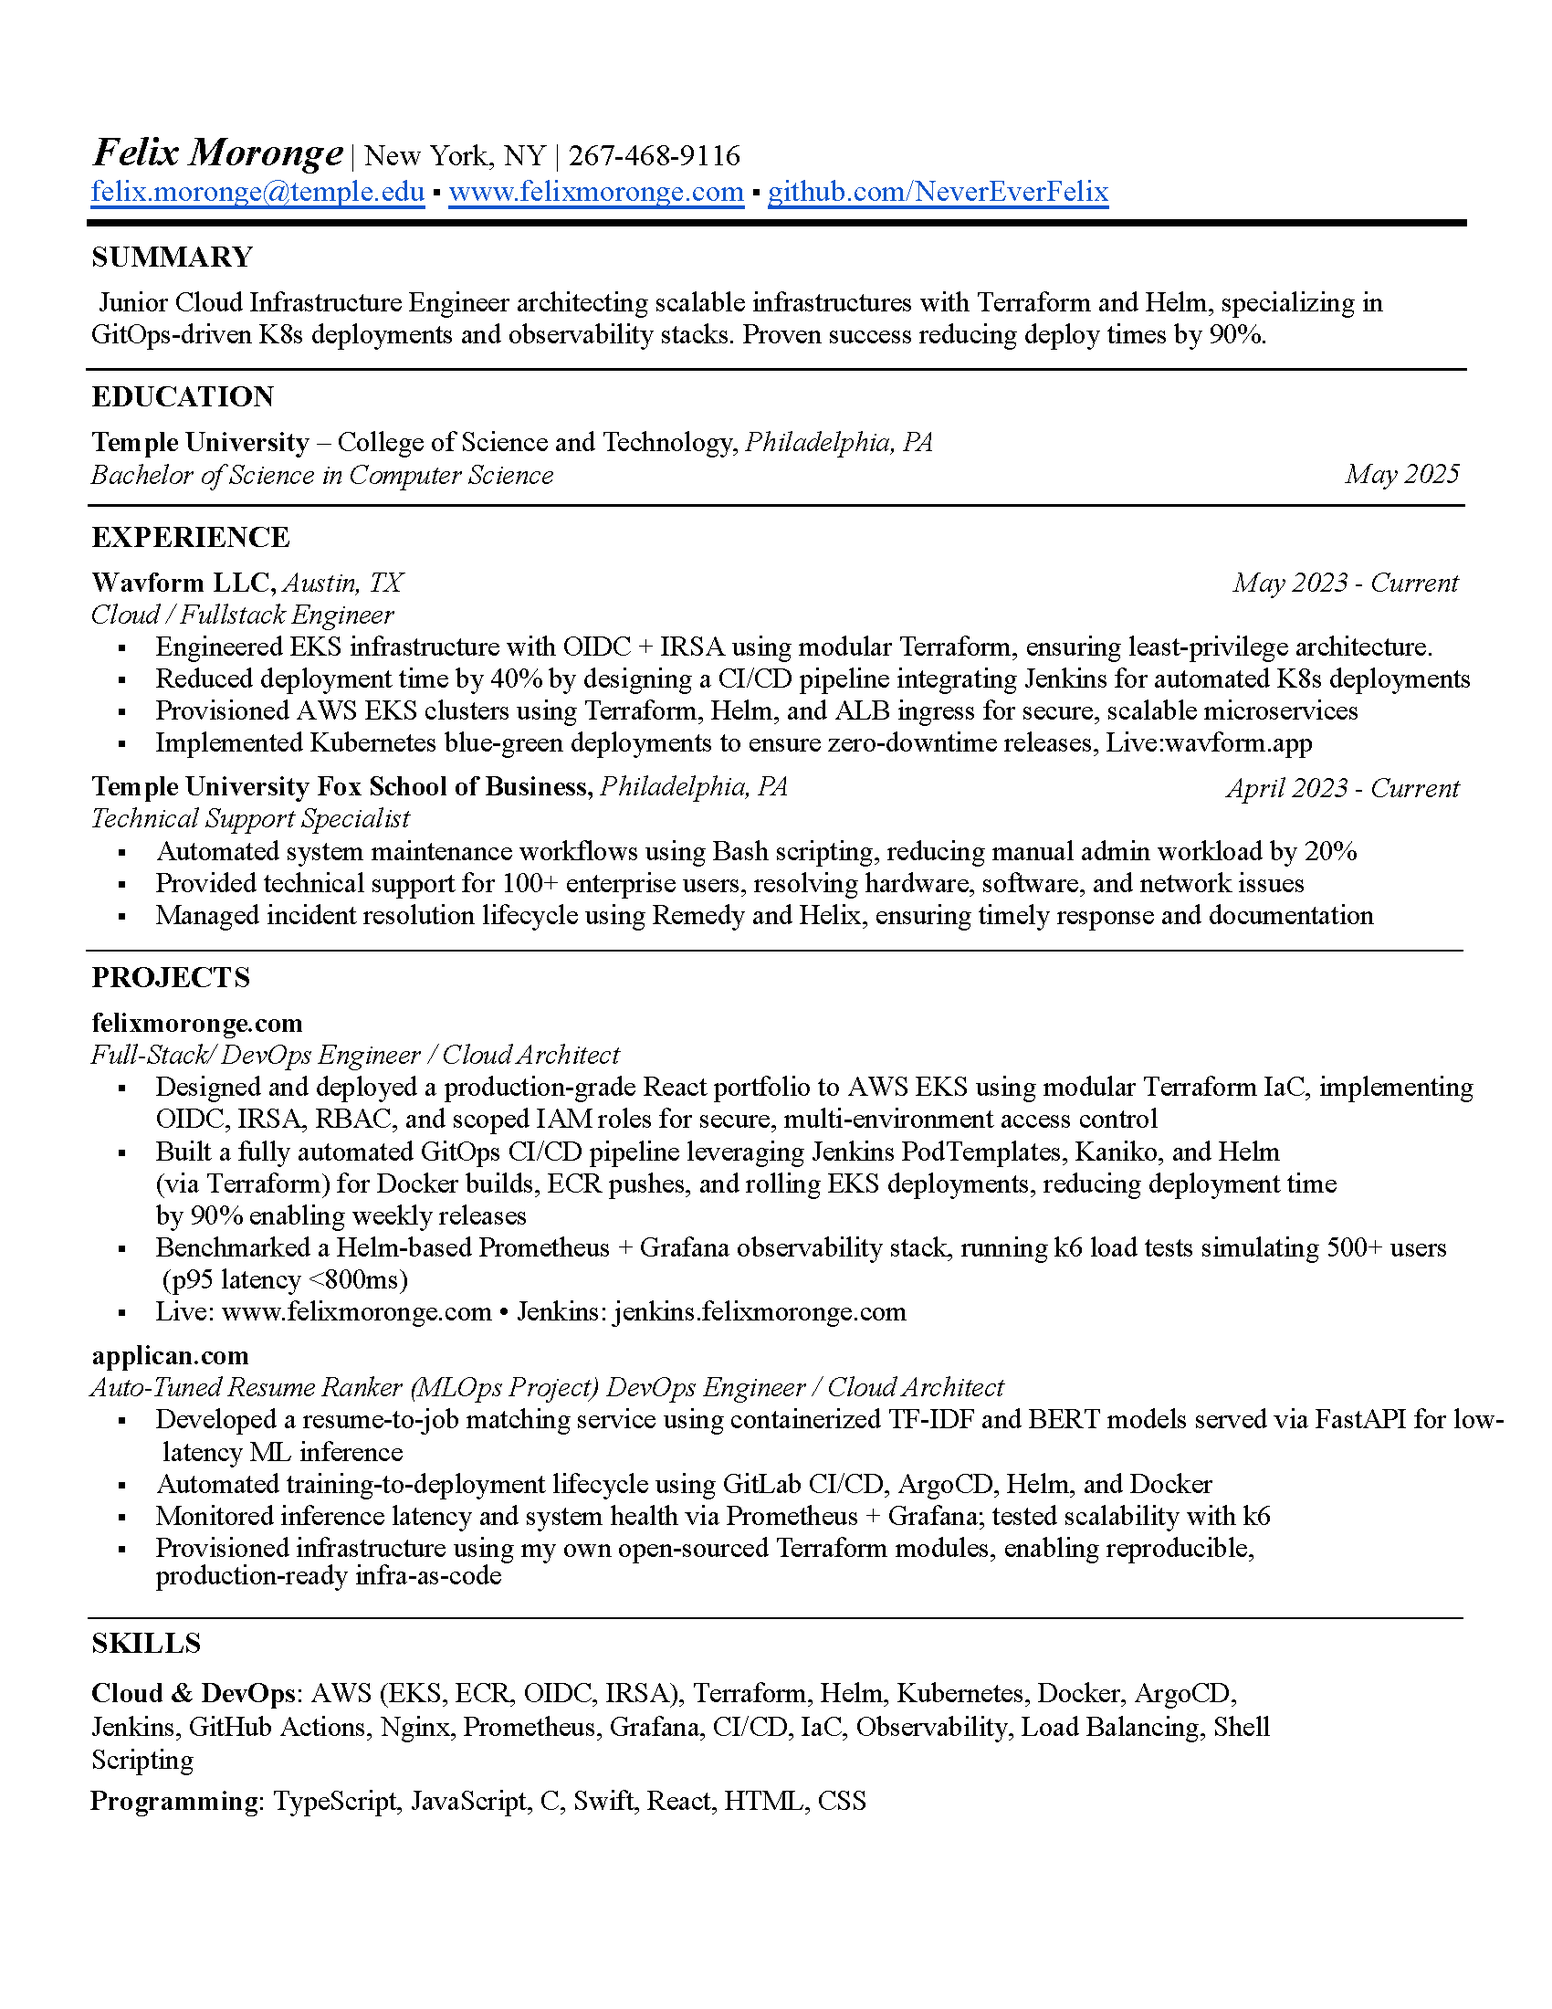
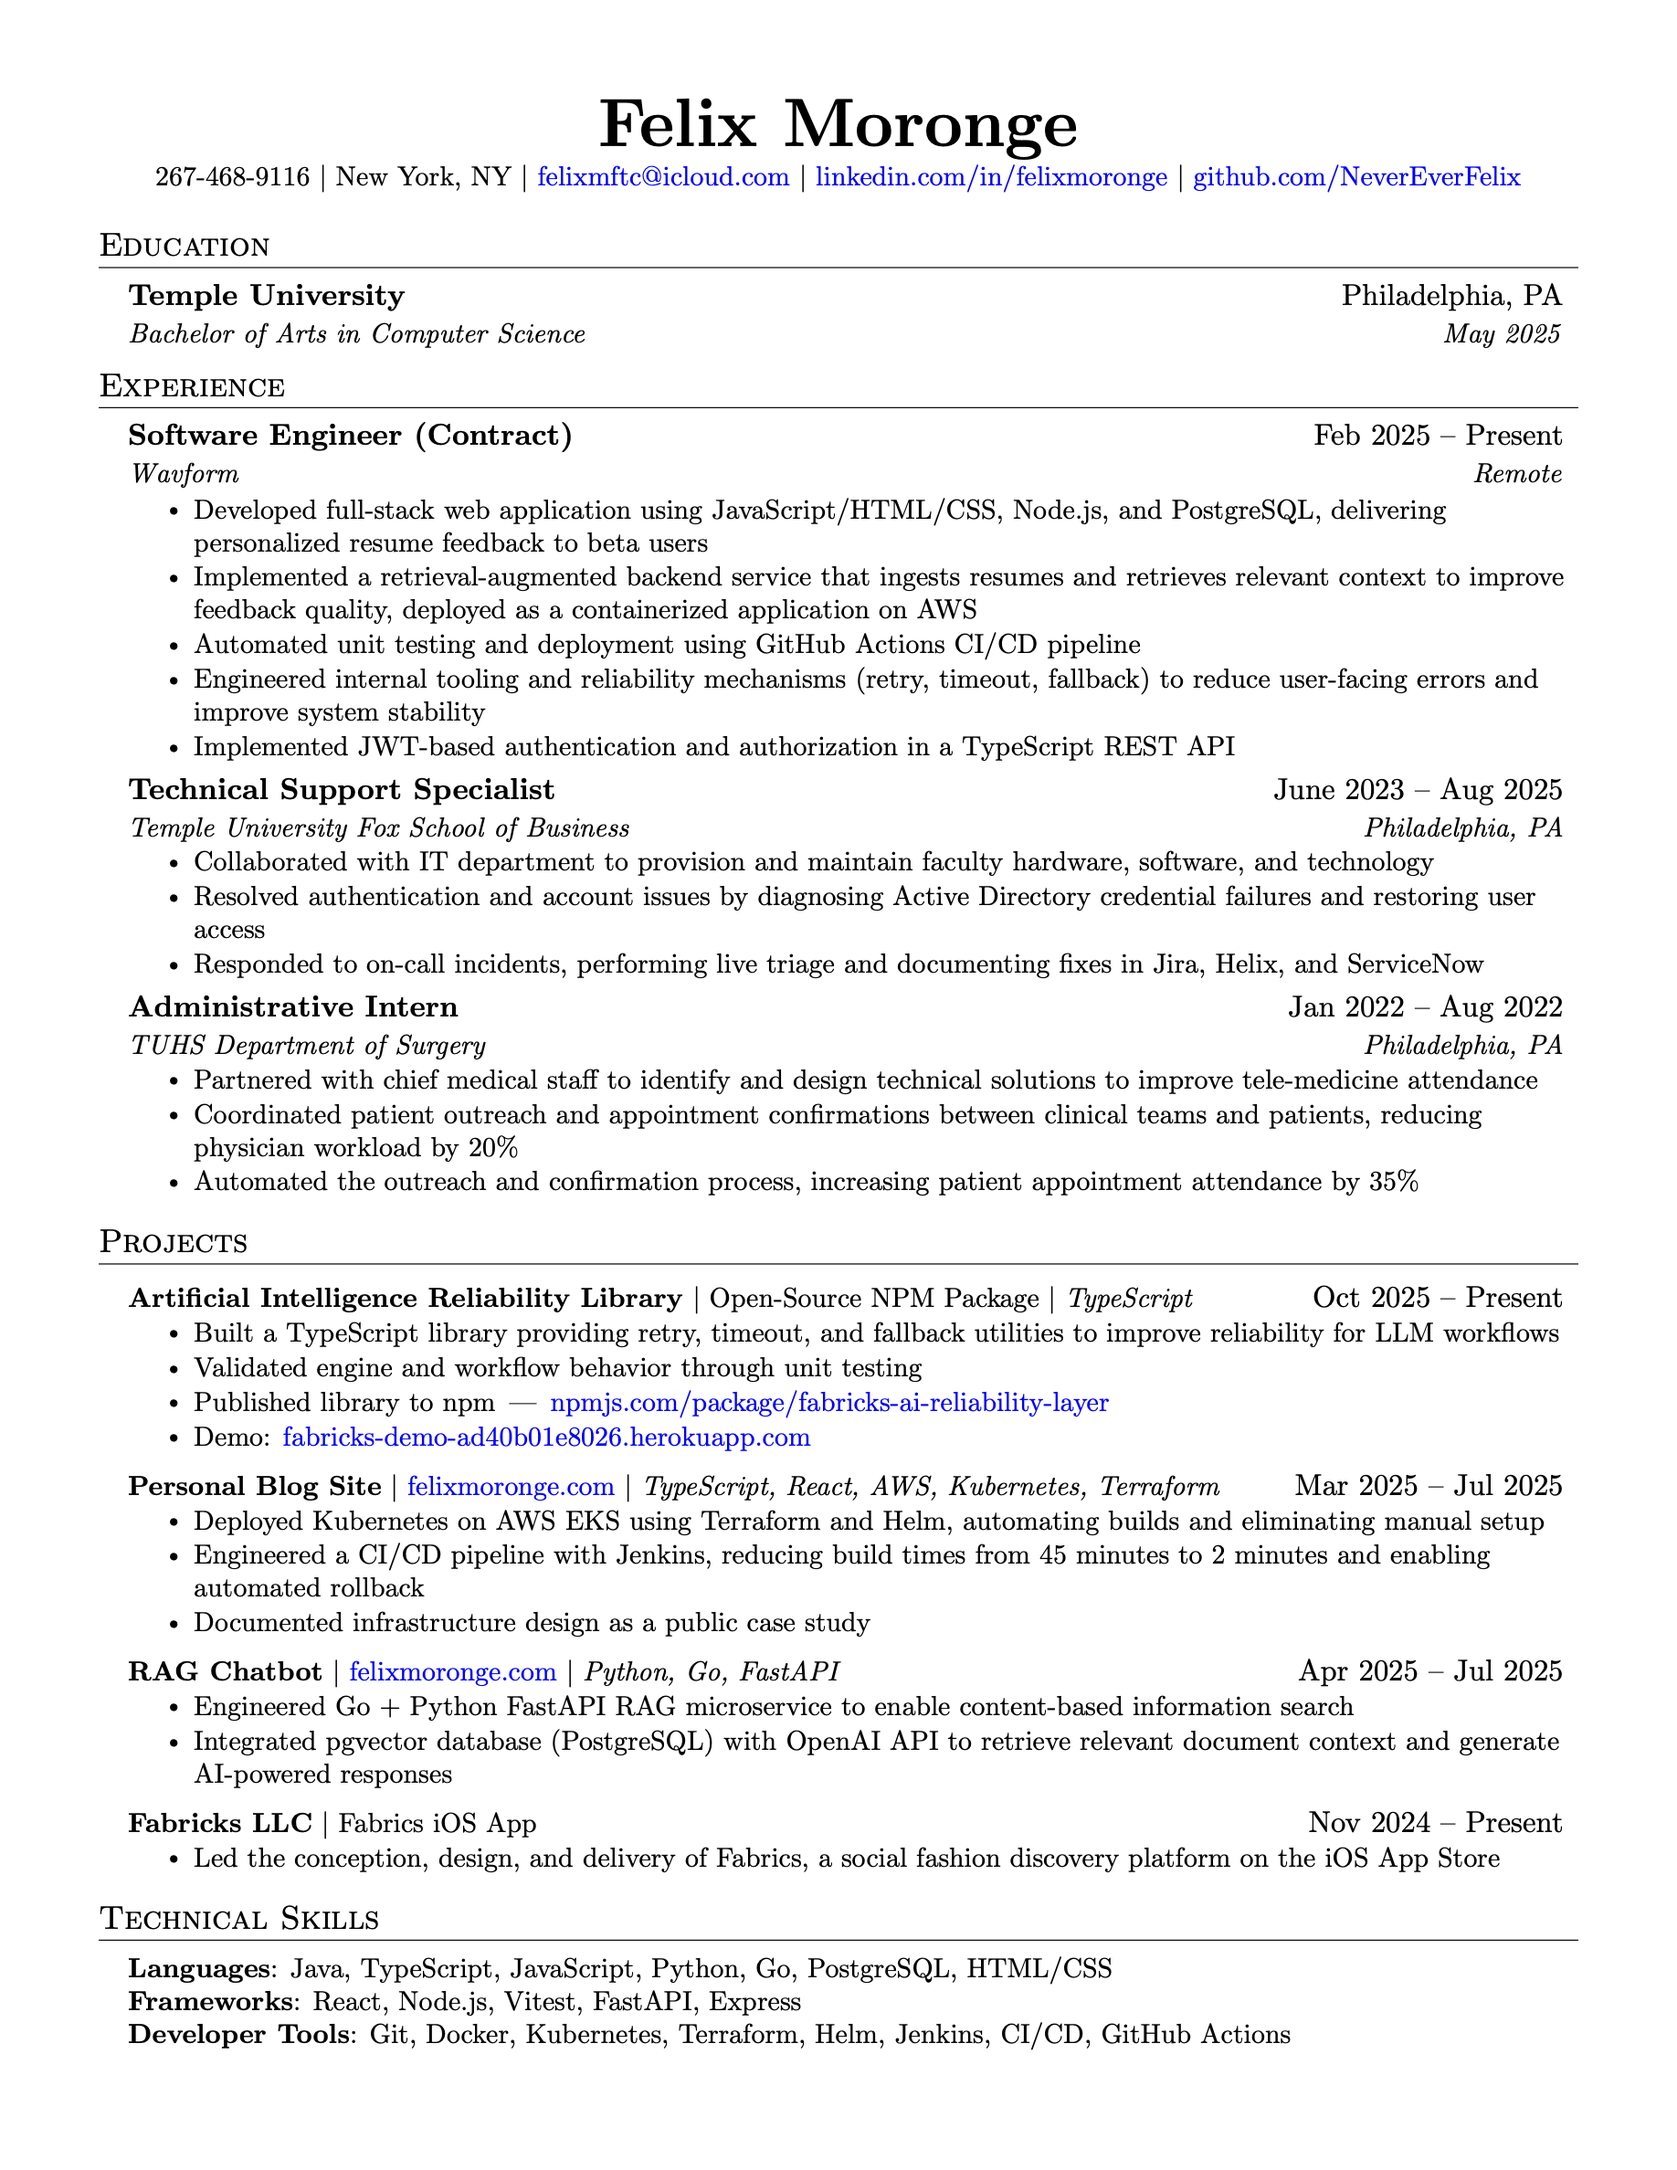
ughh

Changed region(s): [[0.0624, 0.0309, 0.9353, 0.9582], [0.9041, 0.7418, 0.9353, 0.7727]]

diff --git a/felixmorongeportfolio/src/components/RightScrollSections.tsx b/felixmorongeportfolio/src/components/RightScrollSections.tsx
@@ -142,8 +142,8 @@ export default function RightScrollSections({ setActiveSection, sectionRefs }: P
                         <WorkModal
                           logo="/wavformLogo.png"
                           company="Wavform, LLC"
-                          role="DevOps Engineer Intern"
-                          description="Sole DevOps Engineer responsible for the end-to-end design and implementation of Wavform’s cloud infrastructure. Built a hybrid CI/CD pipeline using GitHub Actions and Jenkins, cutting deployment time by 40%. Deployed services to Kubernetes clusters using blue-green deployment strategies, service mesh, and auto-scaling. Provisioned AWS EC2, ALB, and EKS via Terraform and Helm, establishing repeatable IaC patterns. Integrated PostHog-based telemetry into deployment gates for analytics-driven rollbacks and phased releases. Secured infrastructure with AWS Secrets Manager, and authored full onboarding docs—reducing infra ramp-up time by 60%."
+                          role="Software Engineer"
+                          description="Built and supported a production web application end to end, including feature development, deployment, and ongoing maintenance. Automated testing and release workflows to improve reliability, investigated and fixed issues in live environments, and documented system behavior and setup to support future development and handoff."
                           onClose={closeModal}
                         />
                       )}

diff --git a/felixmorongeportfolio/src/components/HeroSection.tsx b/felixmorongeportfolio/src/components/HeroSection.tsx
@@ -18,14 +18,12 @@ export default function HeroSection({ activeSection, onSectionClick }: Props) {
         </h1>
         
         <h2 className="fade-in-up" style={{ animationDelay: '0.6s' , opacity: 0,fontWeight: 400,'--final-opacity': '0.7' } as React.CSSProperties}>
-          DevOps Engineer
+          Software Engineer
         </h2>
         
         <p className="fade-in-up"  style={{ animationDelay: '0.8s' }}>
-          I design and automate scalable infrastructure using AWS, Docker, Kubernetes, and Terraform. 
-          From building CI/CD pipelines to deploying cloud-native apps, I’ve delivered production-grade 
-          systems for startups and AI-driven platforms. Whether it’s zero-downtime deploys, real-time 
-          observability, or seamless automation—I ship fast, reliable code that powers real users.
+        I build, test, and maintain software systems with a focus on reliability, clarity, and real-world use.
+        I’ve worked across the full development lifecycle—implementing features, debugging issues, automating repeatable tasks, and deploying applications in cloud environments. My experience emphasizes writing clear, maintainable code, validating functionality through testing, and supporting production systems used by real users.
         </p>
       </div>
 

diff --git a/felixmorongeportfolio/src/pages/Landing.tsx b/felixmorongeportfolio/src/pages/Landing.tsx
@@ -10,7 +10,7 @@ export default function Landing() {
   const sectionRefs = useRef<Record<string, HTMLElement | null>>({});
   useEffect(() => {
     // Set <title>
-    document.title = "Felix Moronge | DevOps Engineer Portfolio";
+    document.title = "Felix Moronge | Software Engineer Portfolio";
 
     // Canonical link
     const canonical = document.createElement('link');
@@ -36,7 +36,7 @@ export default function Landing() {
         "@type": "Organization",
         "name": "Independent Portfolio"
       },
-      "description": "DevOps engineer portfolio for Felix Moronge, showcasing infrastructure design, CI/CD pipelines, Kubernetes deployments, and scalable project architectures."
+      "description": "Software engineer portfolio for Felix Moronge, showcasing infrastructure design, CI/CD pipelines, Kubernetes deployments, and scalable project architectures."
     });
 
     document.head.appendChild(script);
